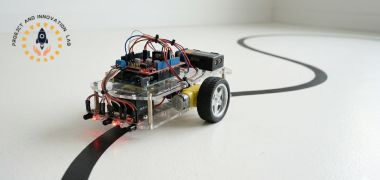
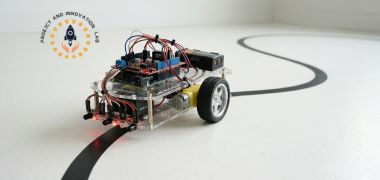
azml

Changed region(s): [[0.0289, 0.0556, 0.2605, 0.3611]]

diff --git a/index.html b/index.html
@@ -1081,7 +1081,7 @@ footer {
         <!-- ROBO RACE -->
         <div class="event-card reveal">
             <img class="event-card-img"
-                 src="Robo_Race.jpg"
+                 src="robo_race.jpg"
                  alt="Robo Race">
             <div class="event-card-body">
                 <h3>🏎 Robo Race</h3>
